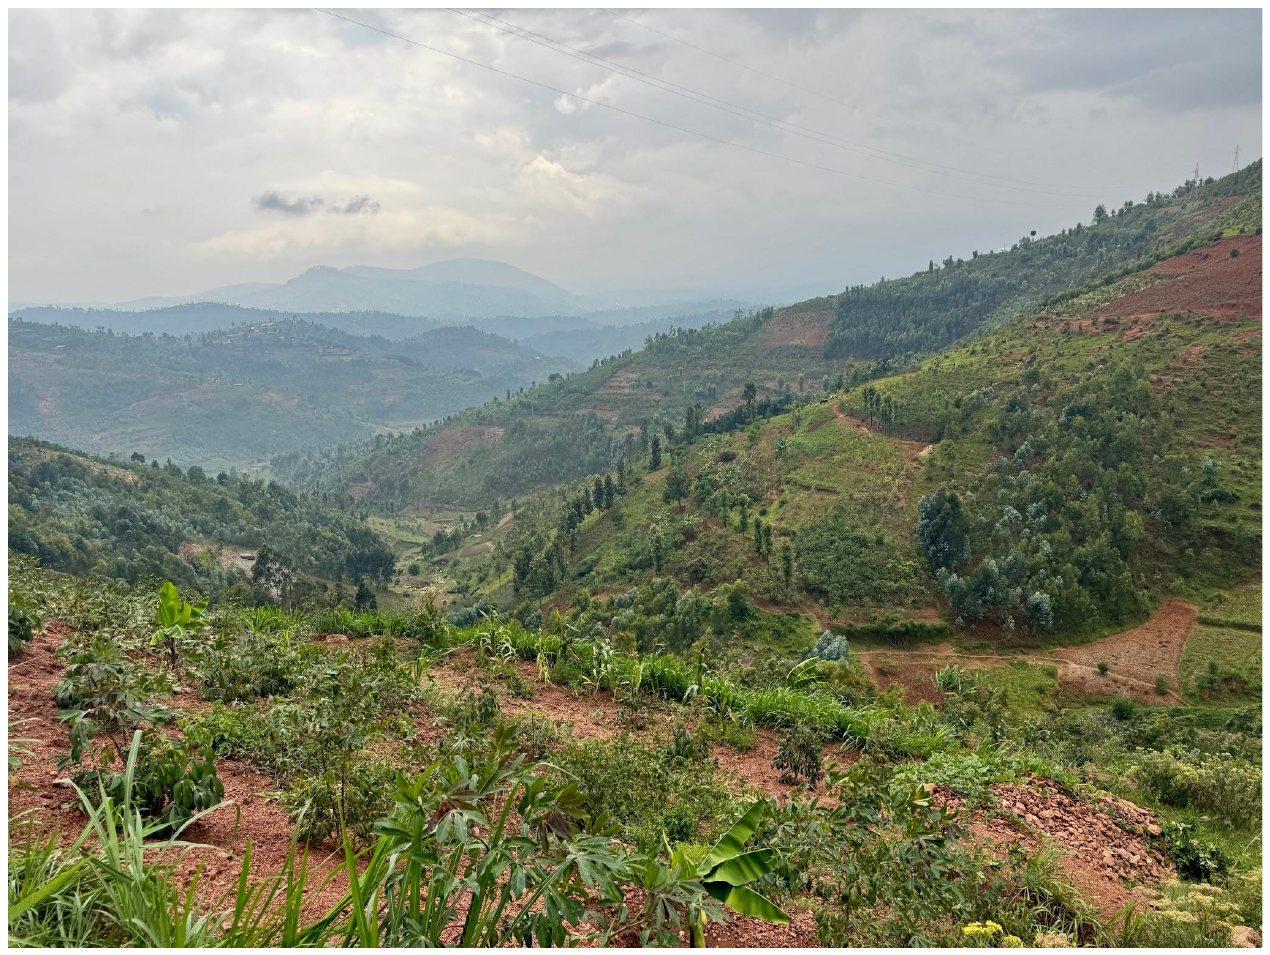
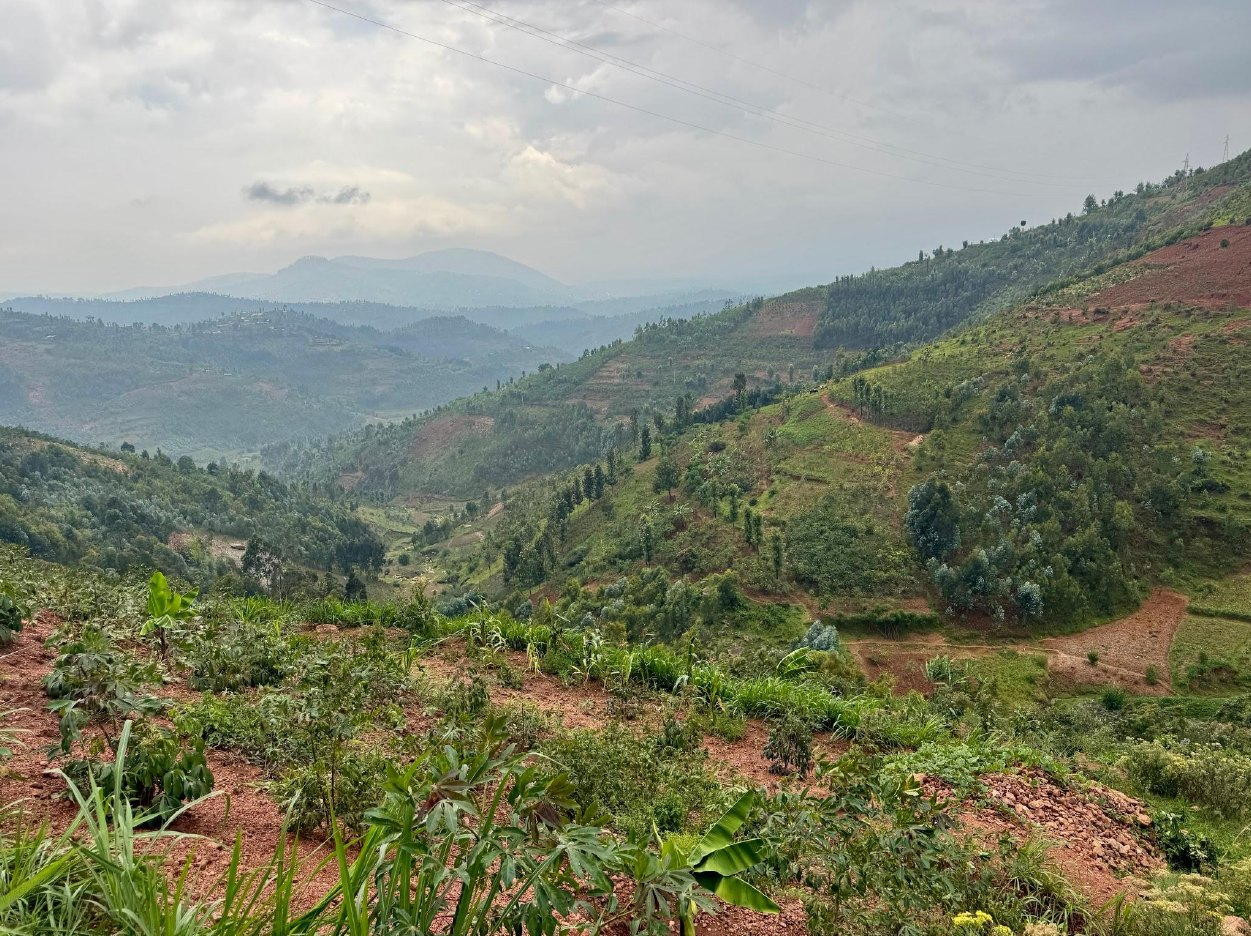
Round thesis cover, trim Rwanda photo, Vintergrönt cover and winter sun map
Claude-Session: https://claude.ai/code/session_01B1XDekyHSwQhQ1iqLT5MFg

diff --git a/data.js b/data.js
@@ -22,7 +22,8 @@ window.PORTFOLIO = {
       year: "2026",
       role: "Bachelor's thesis · Lund University · Pass with distinction",
       tags: ["Urban heat islands", "Landsat LST", "MODIS", "Google Earth Engine", "ArcGIS Pro"],
-      image: "images/project-thesis.jpg",
+      image: "images/project-thesis.png",
+      shape: "circle",
       description:
         "Compared how surface urban heat islands developed in Malta and in Zaragoza, Spain, two places with the same Mediterranean climate. Using summer land surface temperatures from 2013–2025, plus land cover, impervious surfaces and NDVI, I found that Malta has no classic daytime heat island (its built-up rural areas were warmer than the towns), while Zaragoza's city was clearly hotter than its surroundings. Night-time MODIS data from 2003–2025 showed the urban heat island growing in both places.",
       link: ""
@@ -64,14 +65,14 @@ window.PORTFOLIO = {
       tags: ["Hackathon", "Urban green space", "Satellite data", "Shadow modelling", "Interactive map"],
       image: "images/project-vintergront.jpg",
       description:
-        "Green spaces are usually judged by how they look in summer, but in December Lund gets only about seven hours of daylight, and that is when people most need to get outside. In a two-day hackathon our team built a Winter Quality Index for Lund's parks. It combines hours of winter sunlight (from a shadow model of the sun's path on 21 December, with bare tree canopies treated as see-through) with how green each park stays in winter, measured from satellite data. The index showed which parks need improvements most. We added a winter biodiversity index, a look at lighting near parks after dark and an interactive map, and suggested fixes such as evergreen trees, winter-flowering plants, better lighting and snow clearing.",
+        "Green spaces are usually judged by how they look in summer, but in December Lund gets only about seven hours of daylight, and that is when people most need to get outside. In a two-day hackathon our team built a Winter Quality Index for Lund's parks. It combines hours of winter sunlight (from a shadow model of the sun's path on 21 December, with bare tree canopies treated as see-through) with how green each park stays in winter, measured from satellite data. The index showed which parks need improvements most. We added a winter biodiversity index, a look at lighting near parks after dark and an interactive map, and suggested fixes such as evergreen trees, winter-flowering plants, better lighting and snow clearing. During the project we also created an interactive website where anyone can explore the results on a map.",
       link: ""
     }
   ],
 
   maps: [
     { title: "Average Land Surface Temperature, Malta 2013–2025", year: "2026", tools: "Landsat · ArcGIS Pro", image: "images/map-malta-lst.jpg", description: "Mean summer land surface temperature across Malta, from my bachelor's thesis." },
-    { title: "10-year Mean Land Surface Temperature, Zaragoza", year: "2026", tools: "Landsat · ArcGIS Pro", image: "images/map-zaragoza-lst.jpg", description: "Mean summer surface temperature around Zaragoza, showing the city's heat island." },
+    { title: "Winter Sun at Ground Level, Lund", year: "2026", tools: "Lidar height model · Python shadow model", image: "images/map-lund-winter-sun.jpg", description: "Share of daylight in direct sun on 21 December, from the Vintergrönt hackathon project. The sun position was simulated every 2 minutes, with only buildings casting shadows." },
     { title: "Burn Severity of the 2024 Jasper Wildfire", year: "2026", tools: "ArcPy tool · Landsat 8/9", image: "images/map-jasper-burn-severity.jpg", description: "Output of my dNBR burn severity tool for Jasper National Park, Canada." },
     { title: "Soil Deposition Potential Index, Nyamagabe", year: "2026", tools: "ArcGIS Pro · field data", image: "images/map-rwanda-sdpi.jpg", description: "Where eroded soil is likely to settle in the Rwandan study catchment." },
     { title: "10-year Mean NDVI, Zaragoza", year: "2026", tools: "ArcGIS Pro", image: "images/map-zaragoza-ndvi.jpg", description: "Vegetation greenness around Zaragoza, 2015–2025." },

diff --git a/style.css b/style.css
@@ -101,6 +101,8 @@ h2{font:800 clamp(36px,6vw,76px)/1 var(--display);letter-spacing:-.03em;margin:0
 .tilt:hover img,.tilt:hover svg{transform:scale(1.06)}
 .tilt .glare{position:absolute;inset:0;pointer-events:none;background:radial-gradient(circle at var(--gx,50%) var(--gy,50%),rgba(255,255,255,.22),transparent 50%);opacity:0;transition:opacity .3s}
 .tilt:hover .glare{opacity:1}
+.tilt.round{border-radius:50%;aspect-ratio:1;width:min(100%,520px);margin-inline:auto;background:none;box-shadow:0 30px 60px -24px rgba(0,0,0,.7)}
+.tilt.round img{object-fit:contain}
 .p-year{font:600 15px var(--body);color:var(--accent);font-variant-numeric:tabular-nums}
 .project h3{font:600 clamp(26px,3.4vw,44px)/1.1 var(--display);letter-spacing:-.02em;margin:8px 0 10px}
 .p-role{color:var(--mint);font-weight:500;margin:0 0 14px}

diff --git a/script.js b/script.js
@@ -86,7 +86,7 @@ $("#marquee").innerHTML = sk + sk;
 
 $("#projectList").innerHTML = D.projects.map((p, i) => `
   <article class="project reveal">
-    <div class="p-media"><div class="tilt" data-cursor="Look">${media(p.image, topoSVG(i + 1), p.title)}<div class="glare"></div></div></div>
+    <div class="p-media"><div class="tilt${p.shape === "circle" ? " round" : ""}" data-cursor="Look">${media(p.image, topoSVG(i + 1), p.title)}<div class="glare"></div></div></div>
     <div>
       <span class="p-year">${esc(p.year)}</span>
       <h3>${esc(p.title)}</h3>
